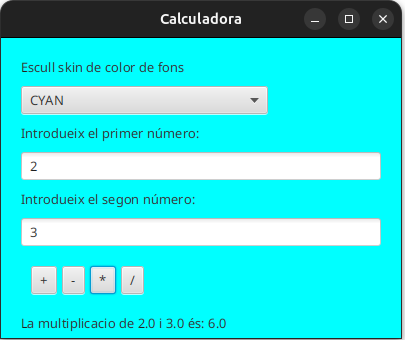
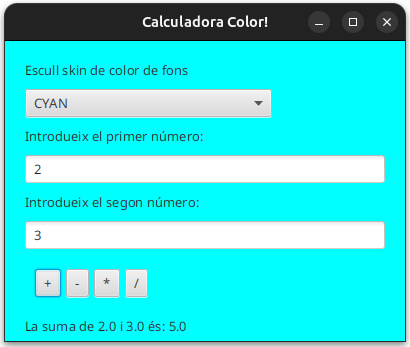
chore: minor changes - stable version

Changed region(s): [[0.0, 0.0, 1.0, 1.0], [0.0593, 0.7647, 0.3852, 0.8824]]

diff --git a/src/main/kotlin/view/CalculadoraJavaFXAPIColor.kt b/src/main/kotlin/view/CalculadoraJavaFXAPIColor.kt
@@ -94,7 +94,7 @@ class CalculadoraJavaFXAPIColor: Application() {
         // Definim la finestra emergent amb el seu contingut vbox i la seva mida en píxels horitzontal i vertical
         val scene = Scene(vBox, 400.0, 300.0)
         // Definim el títol que es mostrarà a la finestra emergent
-        primerStage.title = "Calculadora"
+        primerStage.title = "Calculadora Color!"
         // Li assignem l'escena creada a l'atribut scene a la finestra GUI del nostre programa 'primerStage'
         primerStage.scene = scene
         // Fem que aparegui la finestra de la GUI

diff --git a/src/main/kotlin/Main.kt b/src/main/kotlin/Main.kt
@@ -14,6 +14,11 @@ fun main() {
     menuPrincipal()
 }
 
+/**
+ * Mètode usat per gestionar el menú principal del terminal que permet triar
+ * la UI amb la que l'usuari@ vol fer servir la app.
+ * @author RIS
+ */
 private fun menuPrincipal(){
     val calculadora: Calculadora = Calculadora()
 

diff --git a/README.md b/README.md
@@ -8,7 +8,7 @@ Koltin app using MVC with three diffent views:
 temurin-20 Eclipse Temurin 20.0.2
 
 # IntelliJ Terminal view
-![JavaFX API view](screenshot/Terminal_view_2.png)
+![JavaFX API view](screenshot/Terminal_view.png)
 
 # JavaFX API view
 ![JavaFX API view](screenshot/JavaFX_API_view.png)
